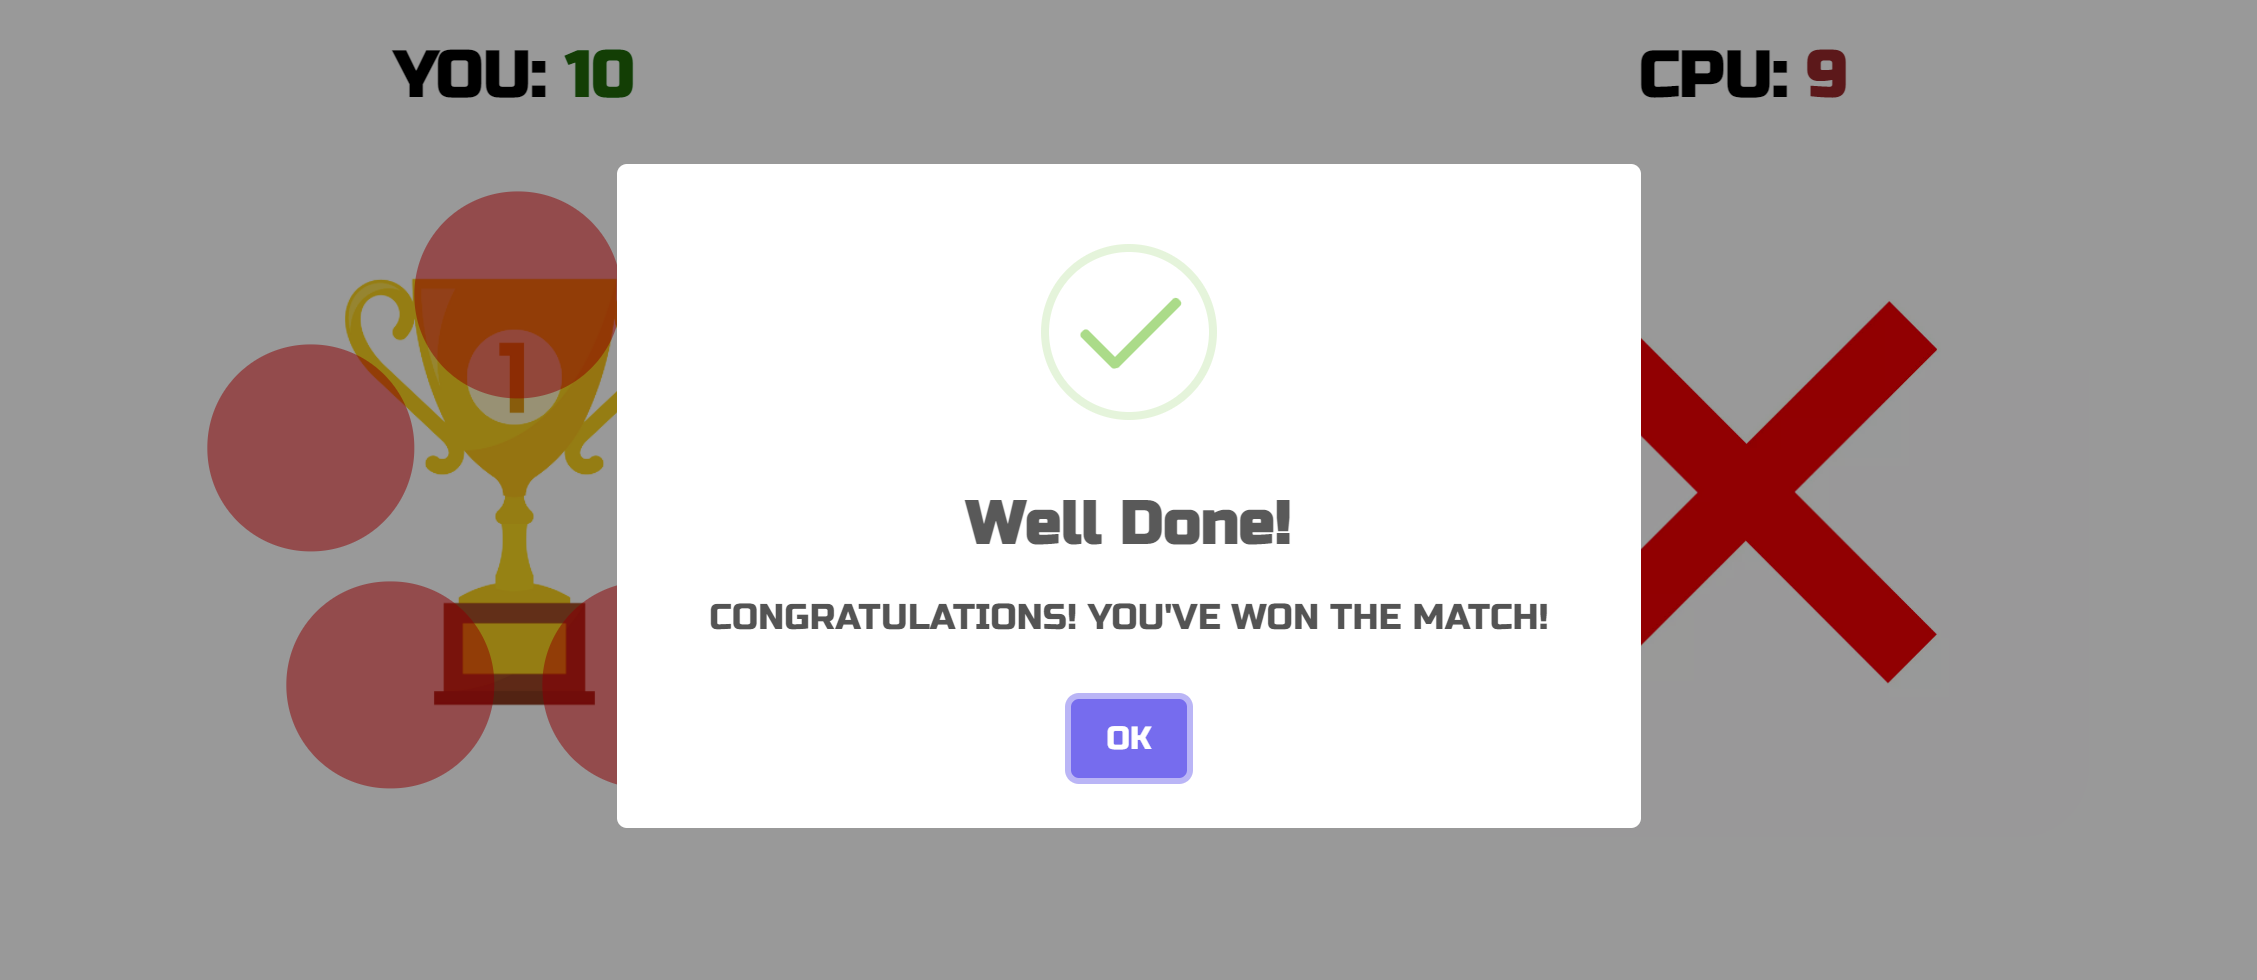
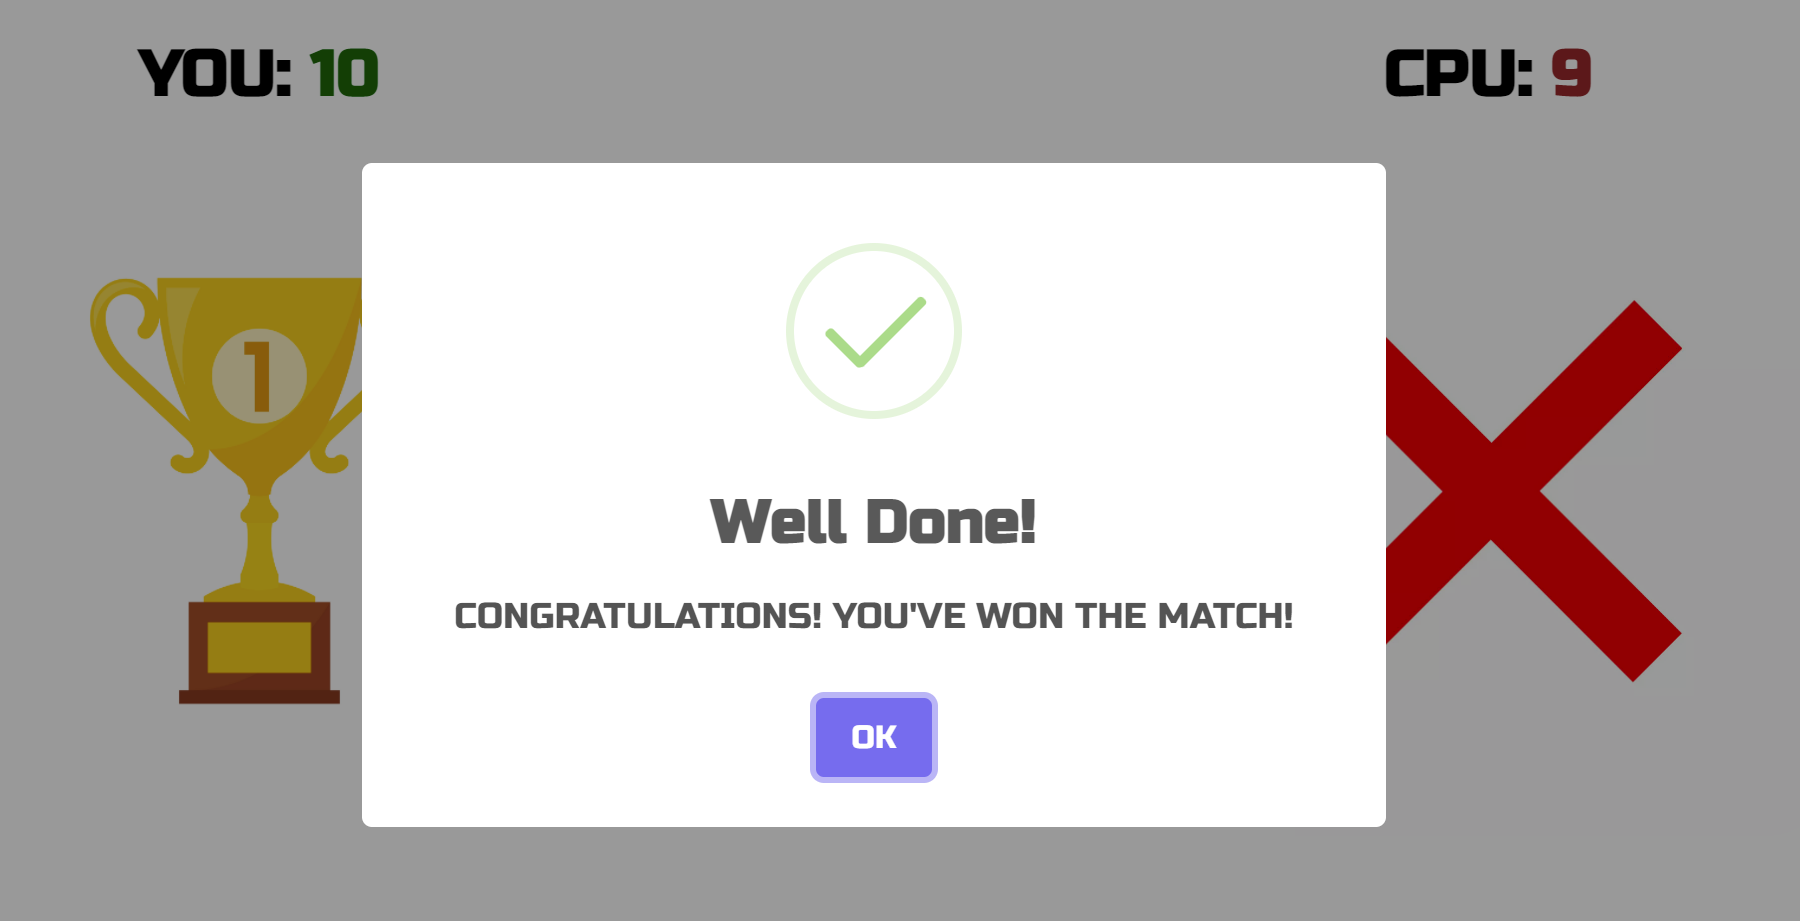
Semantically rename .hide-center class  to .hide-visible and update readme images

diff --git a/assets/js/game.js b/assets/js/game.js
@@ -83,7 +83,6 @@ document.addEventListener("DOMContentLoaded", function() {
                 rulesArea.classList.add('hide');
                 matchArea.classList.remove('hide');
                 break;
-            // Delete this upon submission ****************************************
             case "9":
                 userScore.innerHTML = '9';
                 cpuScore.innerHTML = '9';
@@ -93,7 +92,8 @@ document.addEventListener("DOMContentLoaded", function() {
 });
 
 /**
- * Main game function.
+ * Executes main game function and catches errors in
+ * unaccepted user selections.
  */
 function runGame(userSelection) {
     if (buttonIncomplete) {
@@ -106,9 +106,9 @@ function runGame(userSelection) {
             });
         } else {
             buttonIncomplete = true;
-            resultsArea.classList.add('hide-center');
-            selectAttack.classList.add('hide-center');
-            countdownArea.classList.remove('hide-center');
+            resultsArea.classList.add('hide-visible');
+            selectAttack.classList.add('hide-visible');
+            countdownArea.classList.remove('hide-visible');
             titleIndex = 0;
             countdownArea.innerHTML = options[titleIndex];
             setTimeout(() => countdown(userSelection), 300);
@@ -117,7 +117,7 @@ function runGame(userSelection) {
 }
 
 /**
- * Moves location of CPU score bar when in vertically stacked orientation
+ * Moves location of CPU score bar when in vertically stacked orientation.
  */
 function stackScore() {
     if (verticalThreshold.matches) {
@@ -141,8 +141,8 @@ function countdown(userSelection) {
 	} else if (titleIndex === 5) {
         let cpuIndex = Math.floor(Math.random() * 5);
         let cpuSelection = options[cpuIndex];
-        resultsArea.classList.remove('hide-center');
-        countdownArea.classList.add('hide-center');
+        resultsArea.classList.remove('hide-visible');
+        countdownArea.classList.add('hide-visible');
         changeImage(userImage, userSelection);
         changeImage(cpuImage, cpuSelection);
         checkAnswer(userSelection, cpuSelection);
@@ -229,7 +229,7 @@ function imageReset() {
     setTimeout(function() {
         changeImage(userImage, 'selection');
         changeImage(cpuImage, 'selection');
-        selectAttack.classList.remove('hide-center');
+        selectAttack.classList.remove('hide-visible');
     }, 3000);
     buttonIncomplete = false;
 }

diff --git a/assets/css/style.css b/assets/css/style.css
@@ -187,9 +187,7 @@ footer a {
     width: 30%;
     height: 30%;
     border-radius: 50%;
-    /* add opacity: 0; when submitting ******************************************************* */
-    background-color: rgba(255, 0, 0, 0.5);
-}
+    opacity: 0;}
 
 #user-image-container {
     position: relative;
@@ -221,8 +219,12 @@ footer a {
 }
 
 /* add class to hide elements upon request */
-.hide, .hide-center {
+.hide {
     display: none;
+}
+
+.hide-visible {
+    visibility: hidden;
 }
 
 /* add media queries for responsive design */
@@ -295,7 +297,7 @@ footer a {
         margin: 0 auto;
     }
 
-    .hide-center {
+    .hide-visible {
         display: initial;
         visibility: hidden;
     }

diff --git a/index.html b/index.html
@@ -53,7 +53,7 @@
             <div id="results-area">
                 <span id="current-result">Let's Play!<br>Choose your attack.</span>
             </div>
-            <div id="countdown-area" class="hide-center">
+            <div id="countdown-area" class="hide-visible">
                 <span id="countdown-result">Rock</span>
             </div>
             <br class="clear">

diff --git a/README.md b/README.md
@@ -187,7 +187,7 @@ Various additional features would bring a greater user experience to the website
     * **Resolution** - The <code>buttonIncomplete</code> was initialised to false and was updated to true upon the user selecting an attack. While <code>buttonIncomplete</code> was true, no other attack options could be selected. Once the winner of the point had been declared, it was reassigned back to false and another option could be chosen. Similarly, once either player reached 10 points a Sweet Alert appears to inform the user to reset the game, and the selectors would not initiate the countdown sequence.
 
 * **Issue** - Dynamically hiding elements from view during gameplay.
-    * **Resolution** - Main games area were assigned and unassigned the .hide class using JavaScript depending on whether they were active or not. Applying <code>display:none</code> allowed for the element to be hidden from view and also occupy no space on the screen. A separate .hide-center class was applied to elements in the center area such as the result and countdown text. This instead applied <code>visibility:hidden</code> to hide the content from view while keeping the structural integrity of the html. [Adapted from Career Karma](https://careerkarma.com/blog/css-hide-element/).
+    * **Resolution** - Main games area were assigned and unassigned the .hide class using JavaScript depending on whether they were active or not. Applying <code>display:none</code> allowed for the element to be hidden from view and also occupy no space on the screen. A separate .hide-visible class was applied to elements in the center area such as the result and countdown text. This instead applied <code>visibility:hidden</code> to hide the content from view while keeping the structural integrity of the html. [Adapted from Career Karma](https://careerkarma.com/blog/css-hide-element/).
 
 * **Issue** - Functions running immediately when assigning event listeners.
     * **Resolution** - The syntax of the listener was assigned to <code>() => functionName(variable))</code> instead of simply <code>functionName(variable)</code>. If no variables were passed into the function, passing only <code>functionName</code> prevented the immediate running of the function. [Adapted from Stack Overflow](https://stackoverflow.com/questions/16310423/addeventlistener-calls-the-function-without-me-even-asking-it-to).
